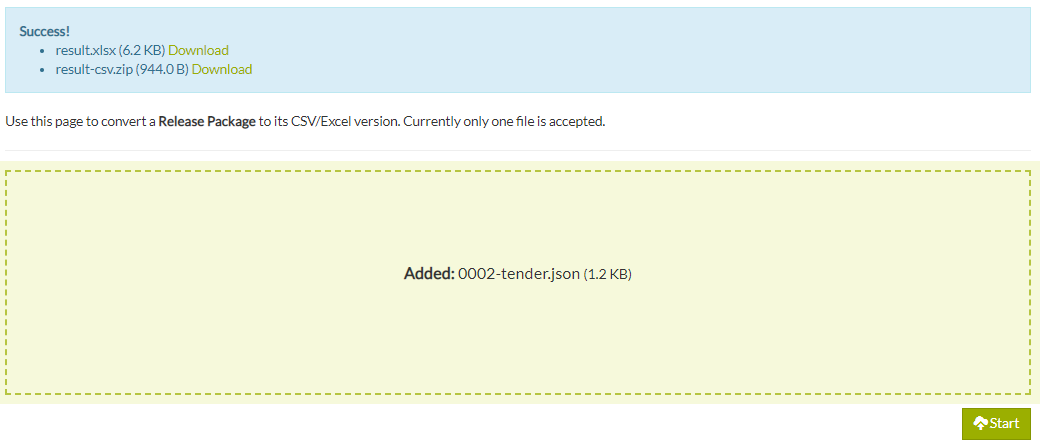
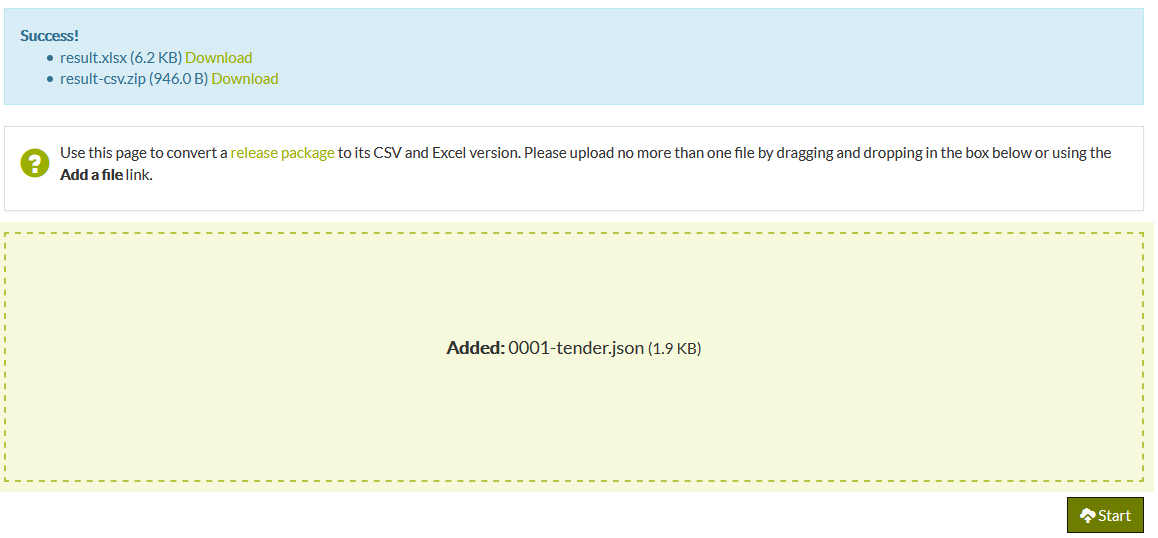
Modificadas las imagenes de los ejemplos 4 y 5

Changed region(s): [[0.0, 0.2623, 1.0, 0.991], [0.0, 0.0, 1.0, 0.2332], [0.3692, 0.583, 0.6154, 0.6704]]

diff --git a/README_es.md b/README_es.md
@@ -61,12 +61,6 @@ Convierte un archivo Release Package a una versión CSV/Excel.
 Utiliza la herramienta [flatten-tool](https://github.com/OpenDataServices/flatten-tool).
 >Tipo de archivo válido: Release Package.
 
-### Data Review Tool
-Enlaza a la [Herramienta de Revisión de Datos](http://standard.open-contracting.org/review/).
-
-### OCDS Extension Creator
-Enlaza a la [Herramienta de Creación de Extensiones OCDS](https://open-contracting.github.io/extension_creator/).
-
 ## Arquitectura
 ### Descripción  de la arquitectura
 Se utiliza Django Framework para construir los módulos Fron-end y Back-end para la aplicación.
